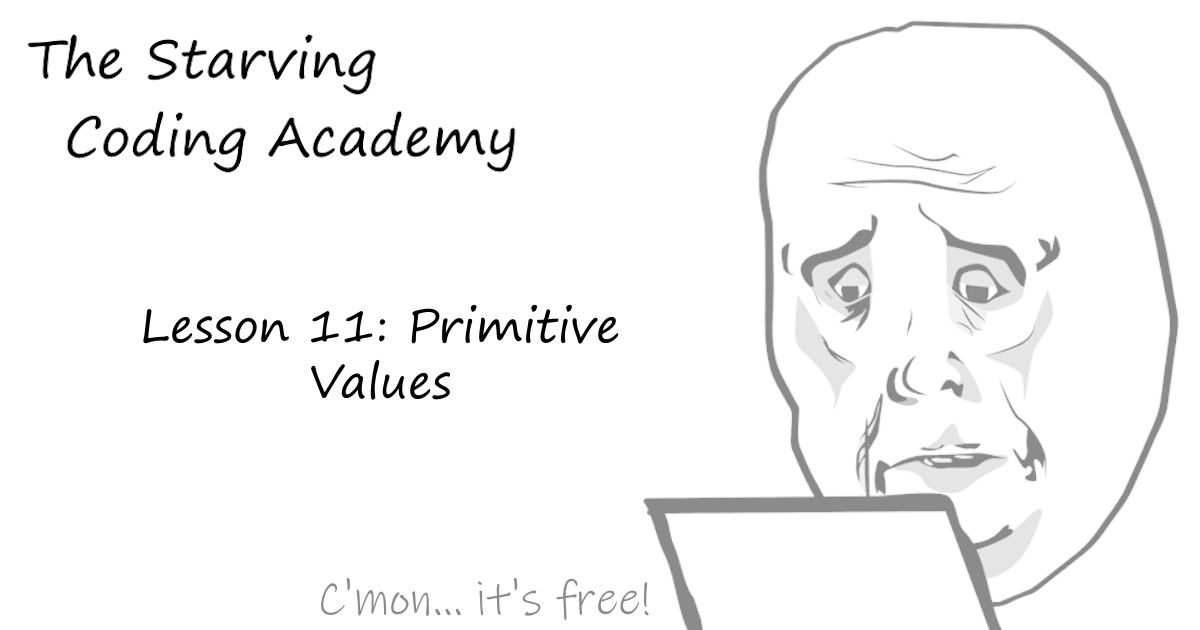
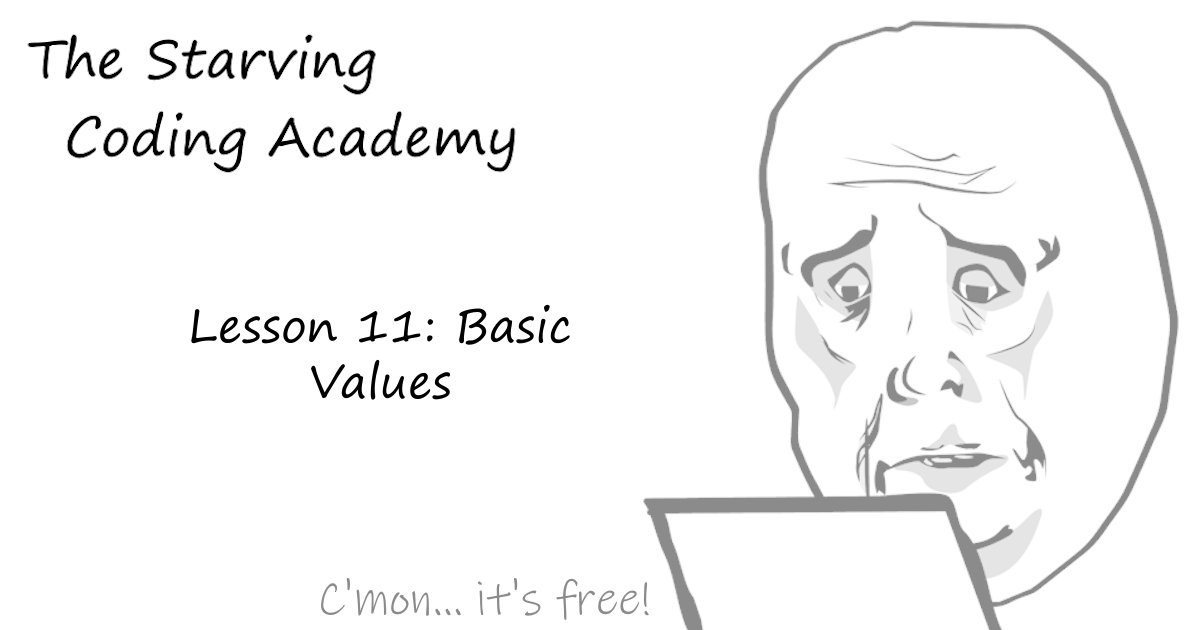
Primitive to Basic

Changed region(s): [[0.0925, 0.4825, 0.5242, 0.5429]]

diff --git a/assets/js/lessons/syntax-lessons.js b/assets/js/lessons/syntax-lessons.js
@@ -59,7 +59,7 @@ export const syntaxLessons = {
         title: "Syntax lessons",
         links: [
           { title: "Values And Variables", body: "Give changing state a useful name.", href: "values-variables.html" },
-          { title: "Primitive Values", body: "Meet numbers, text, and other basic values.", href: "primitive-values.html" },
+          { title: "Basic Values", body: "Meet numbers, text, and other basic values.", href: "primitive-values.html" },
           { title: "Strong Typing", body: "Understand what type rules protect.", href: "strong-typing.html" },
           { title: "Complex Types", body: "Group values into useful structures.", href: "complex-types.html" },
           { title: "Why Booleans Matter", body: "Turn questions into control flow.", href: "booleans.html" },

diff --git a/assets/js/navigation.js b/assets/js/navigation.js
@@ -26,7 +26,7 @@ export const navigation = [
         href: "pages/values-variables.html",
         children: [{ title: "Comments", href: "pages/comments.html" }],
       },
-      { title: "Primitive Values", href: "pages/primitive-values.html" },
+      { title: "Basic Values", href: "pages/primitive-values.html" },
       { title: "Strong Typing", href: "pages/strong-typing.html" },
       { title: "Complex Types", href: "pages/complex-types.html" },
       { title: "Why Booleans Matter", href: "pages/booleans.html" },
